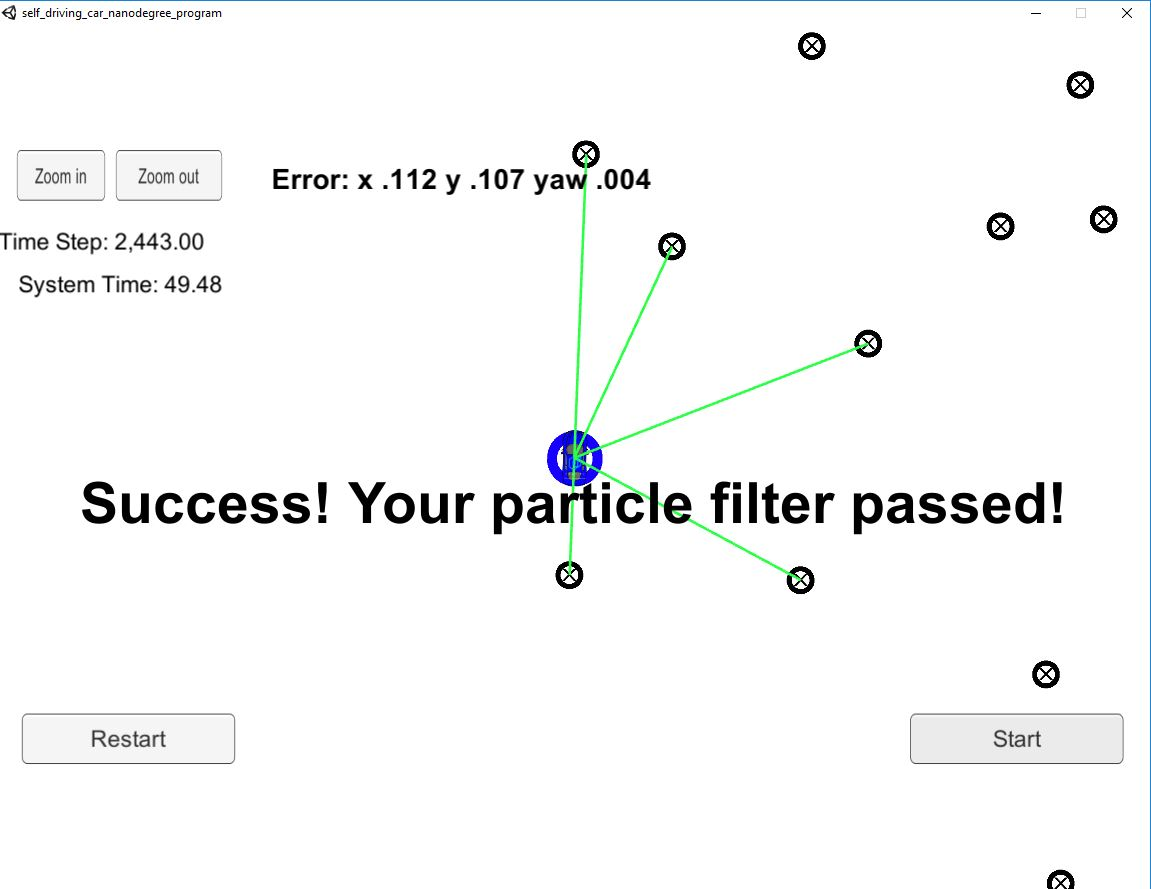
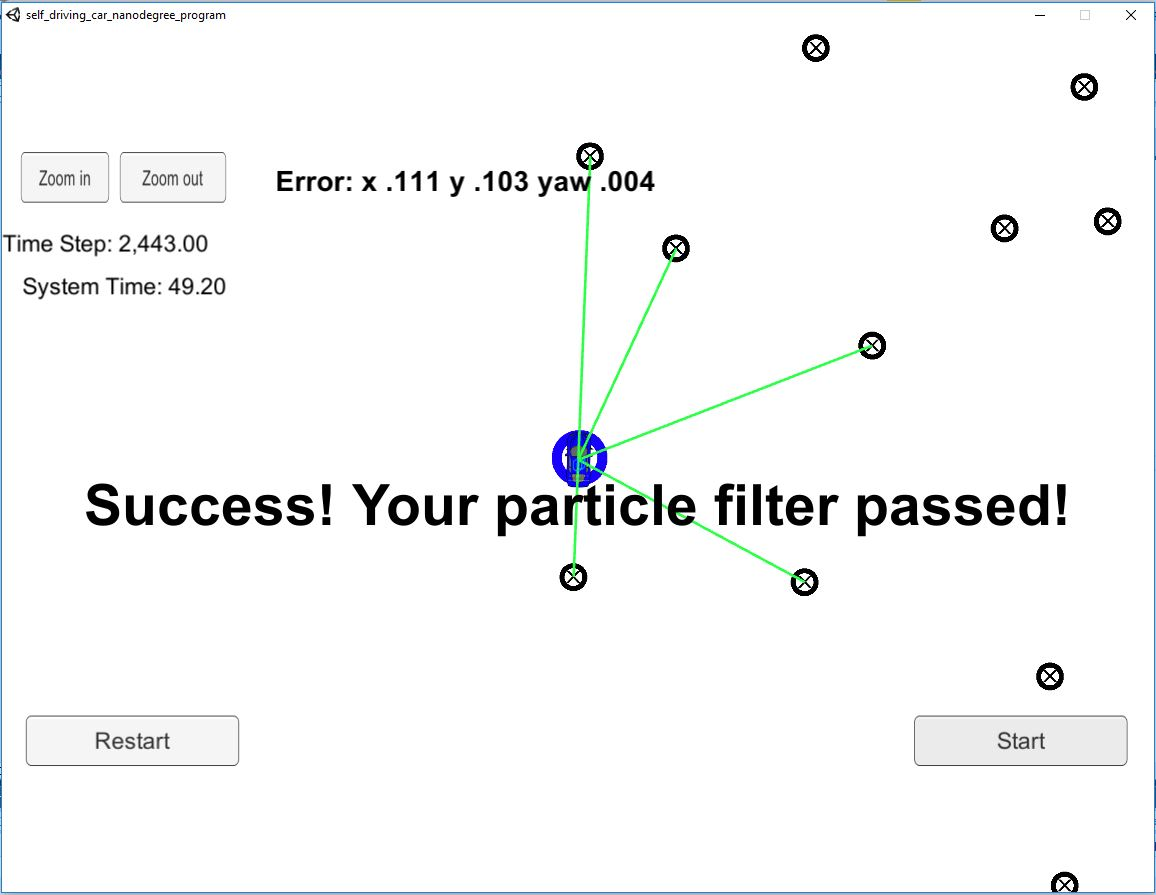
updated with minor code changes

diff --git a/src/particle_filter.cpp b/src/particle_filter.cpp
@@ -32,8 +32,9 @@ void ParticleFilter::init(double x, double y, double theta, double std[]) {
 		//initialize number of particles to use
 		num_particles = NUMBER_OF_PARTICLES;
 
+		random_device rd;
 		// Define random generator with Gaussian distribution
-		default_random_engine gen;
+		default_random_engine gen(rd());
 
 		// Create normal (Gaussian) distribution for x,y and theta.
 		normal_distribution<double> dist_x(x, std[0]);
@@ -59,8 +60,9 @@ void ParticleFilter::init(double x, double y, double theta, double std[]) {
 }
 
 void ParticleFilter::prediction(double delta_t, double std_pos[], double velocity, double yaw_rate) {
+	random_device rd;
 	// Define random generator with Gaussian distribution
-	default_random_engine gen;
+	default_random_engine gen(rd());
 
 	// Create normal (Gaussian) distribution for x,y and theta.
 	normal_distribution<double> dist_x(0., std_pos[0]);
@@ -102,7 +104,6 @@ void ParticleFilter::updateWeights(double sensor_range, double std_landmark[],
 	//   3.33
 	//   http://planning.cs.uiuc.edu/node99.html
 
-
 	//constants to use in weight calculations
 	const double sigma_x2 = std_landmark[0] * std_landmark[0];
 	const double sigma_y2 = std_landmark[1] * std_landmark[1];
@@ -113,7 +114,7 @@ void ParticleFilter::updateWeights(double sensor_range, double std_landmark[],
 
 	unsigned int nObservations = observations.size();
 
-	for (unsigned int i = 0; i < num_particles; ++i)
+	for (int i = 0; i < num_particles; ++i)
 	{
 		// Iterate through all the observations and find the shortest distance between each observation and the particle
 		for (unsigned int j = 0; j < nObservations; ++j)
@@ -161,14 +162,17 @@ void ParticleFilter::updateWeights(double sensor_range, double std_landmark[],
 
 				// final weight of the particle will be the product of each measurement's multivariable-gaussian probability density (weight)
 				particles[i].weight *= weight;
-
-				//sum of weights to be used later, for normalization
-				sum_w += particles[i].weight;
 			}
+			else
+			{
+				particles[i].weight *= EPS;
+			}	
+			//sum of weights to be used later, for normalization
+			sum_w += particles[i].weight;
 		}
 	}
 	// Weights normalization to sum of weights=1
-	for (unsigned int l = 0; l < num_particles; ++l) {
+	for (int l = 0; l < num_particles; ++l) {
 		particles[l].weight /= sum_w;
 		weights[l] = particles[l].weight;
 	}
@@ -178,7 +182,8 @@ void ParticleFilter::resample() {
 	// Resample particles with replacement with probability proportional to their weight. 
 	// NOTE: You may find std::discrete_distribution helpful here.
 	//   http://en.cppreference.com/w/cpp/numeric/random/discrete_distribution
-	static default_random_engine gen;
+	random_device rd;
+	static default_random_engine gen(rd());
 
 	discrete_distribution<> dis_particles(weights.begin(), weights.end());
 	vector<Particle> new_particles;
@@ -186,7 +191,7 @@ void ParticleFilter::resample() {
 	for (int i = 0; i < num_particles; i++) {
 		new_particles[i] = particles[dis_particles(gen)];
 	}
-	particles = new_particles;
+	particles = move(new_particles);
 }
 
 string ParticleFilter::getAssociations(Particle best)
